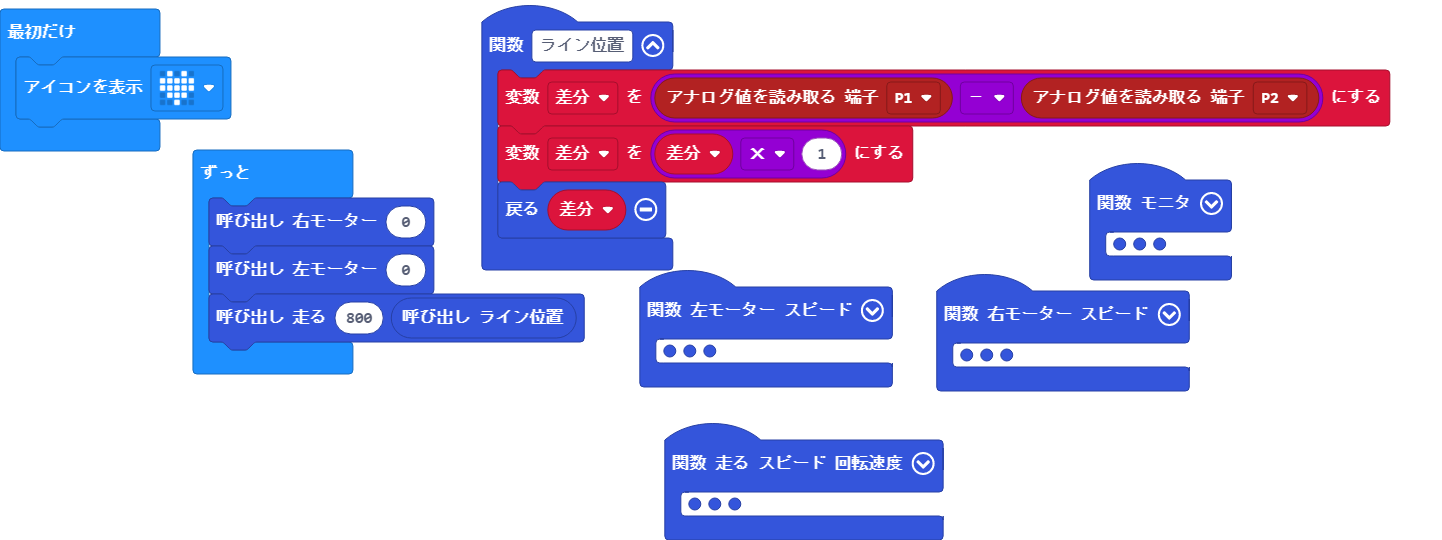
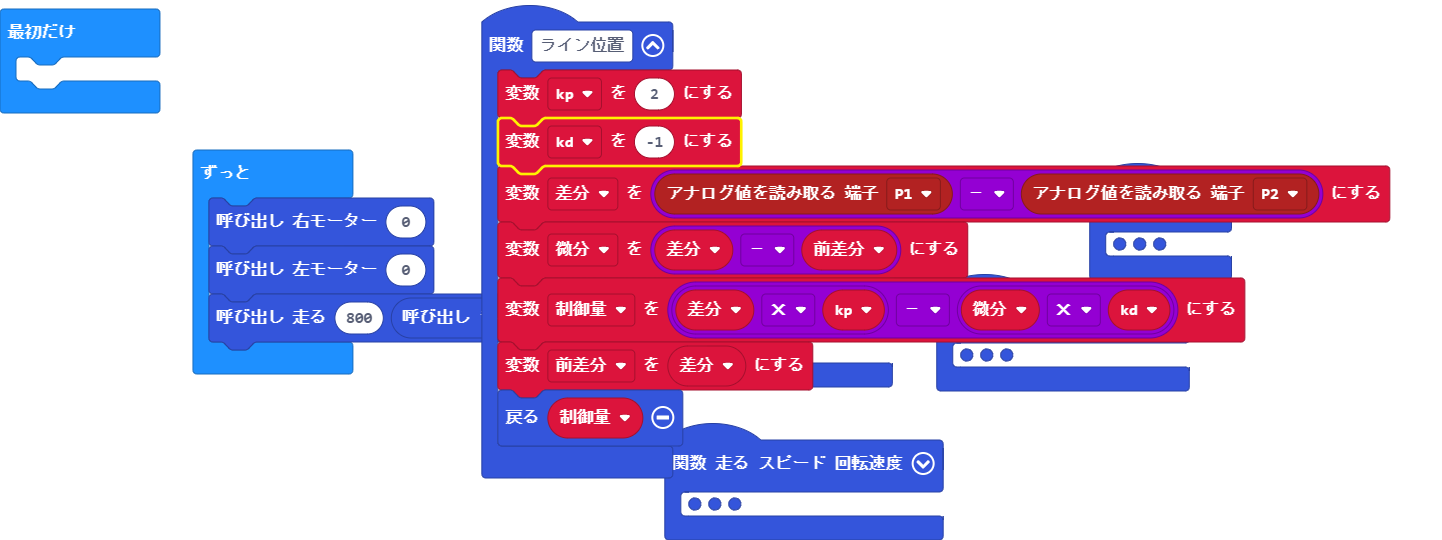
微分成分を追加

Changed region(s): [[0.3121, 0.1185, 0.9674, 0.8889], [0.0, 0.0889, 0.1872, 0.2963]]

diff --git a/main.ts b/main.ts
@@ -1,3 +1,11 @@
+let kp = 0
+let kd = 0
+let 差分 = 0
+let 微分 = 0
+let 前差分 = 0
+let 制御量 = 0
+let 左スピード = 0
+let 右スピード = 0
 function モニタ () {
     serial.writeValue("0", pins.analogReadPin(AnalogPin.P0))
     serial.writeValue("1", pins.analogReadPin(AnalogPin.P1))
@@ -6,9 +14,13 @@ function モニタ () {
     serial.writeLine("-------------------------------------------------")
 }
 function ライン位置 () {
+    kp = 2
+    kd = -1
     差分 = pins.analogReadPin(AnalogPin.P1) - pins.analogReadPin(AnalogPin.P2)
-    差分 = 差分 * 1
-    return 差分
+    微分 = 差分 - 前差分
+    制御量 = 差分 * kp - 微分 * kd
+    前差分 = 差分
+    return 制御量
 }
 function 走る (スピード: number, 回転速度: number) {
     左スピード = スピード - 回転速度
@@ -66,10 +78,6 @@ function 右モーター (スピード: number) {
         pins.analogWritePin(AnalogPin.P13, Math.abs(右スピード))
     }
 }
-let 右スピード = 0
-let 左スピード = 0
-let 差分 = 0
-basic.showIcon(IconNames.Heart)
 basic.forever(function () {
     右モーター(0)
     左モーター(0)
